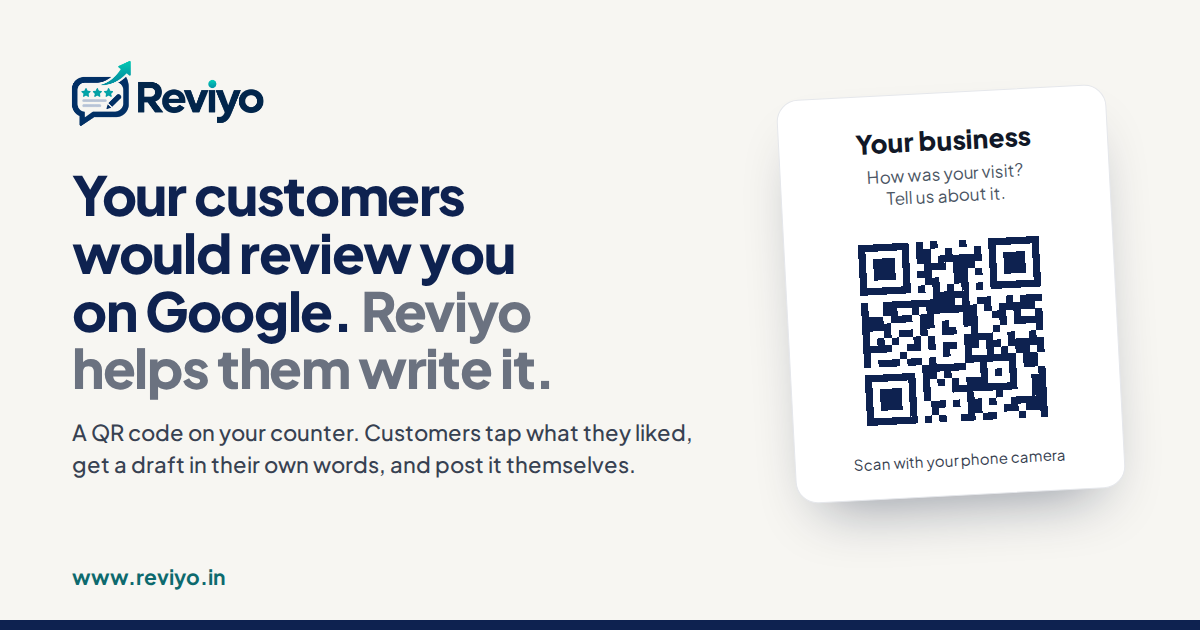
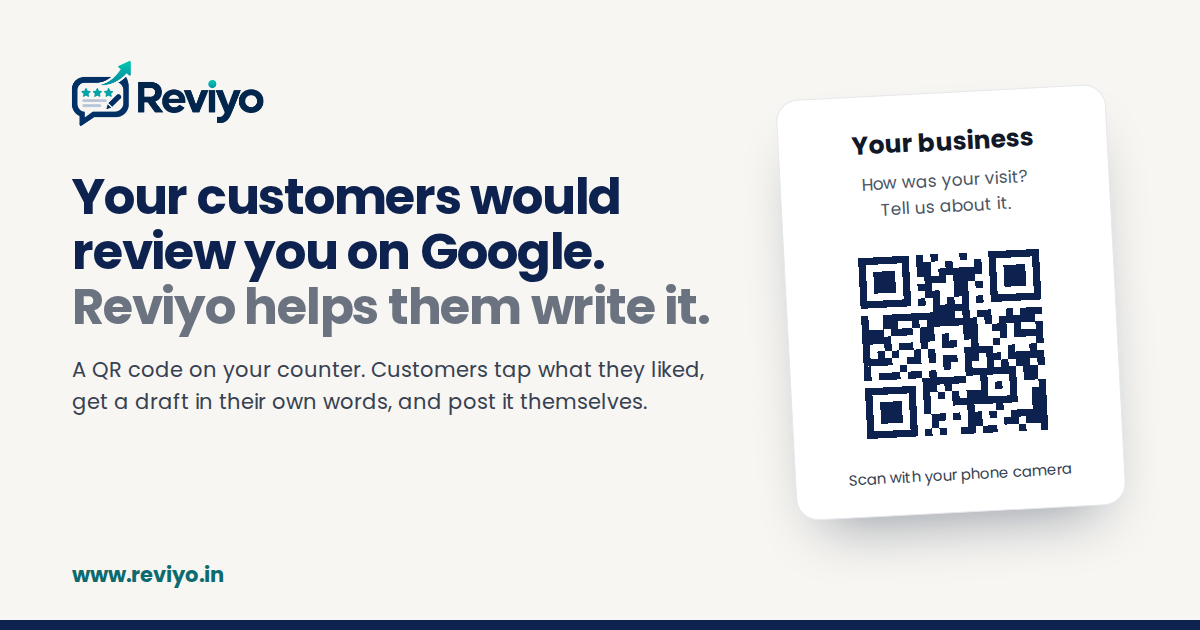
Use Poppins for the whole site
Chosen from a side-by-side of eight fonts on the pricing section. Poppins
(Indian Type Foundry) is clear and friendly, has a well-drawn ₹ sign, and
is self-hosted like before. Only the four weights the site uses are loaded
(regular, medium, semibold, bold); page titles use bold, and headings get
slightly looser spacing and line height to suit the wider letters. The
social share image is redrawn in the same font.

Claude-Session: https://claude.ai/code/session_01G6gXpwaLUAb6Rb51EmzMmu

Changed region(s): [[0.0617, 0.2714, 0.5858, 0.754], [0.6475, 0.2111, 0.9558, 0.8444], [0.0617, 0.9048, 0.185, 0.9349]]

diff --git a/src/index.css b/src/index.css
@@ -1,5 +1,9 @@
-/* Self-hosted site font (see fontFamily.sans in tailwind.config.js). */
-@import '@fontsource-variable/plus-jakarta-sans/wght.css';
+/* Self-hosted site font (see fontFamily.sans in tailwind.config.js): only the
+   four weights the site uses — font-normal, -medium, -semibold, and -bold. */
+@import '@fontsource/poppins/400.css';
+@import '@fontsource/poppins/500.css';
+@import '@fontsource/poppins/600.css';
+@import '@fontsource/poppins/700.css';
 
 @tailwind base;
 @tailwind components;
@@ -10,10 +14,11 @@
     @apply text-gray-900 antialiased;
   }
 
-  /* Large headings are set a little tighter, as display type usually is. */
+  /* Large headings are set a touch tighter, as display type usually is.
+     Poppins is wide and round, so only slightly. */
   h1,
   h2 {
-    letter-spacing: -0.02em;
+    letter-spacing: -0.01em;
   }
 
   /*

diff --git a/src/pages/marketing/IndustryPage.tsx b/src/pages/marketing/IndustryPage.tsx
@@ -32,7 +32,7 @@ export function IndustryPage() {
             <Breadcrumbs />
             <div className="mt-10 max-w-3xl">
               <p className="text-sm font-semibold text-accent-700">Google reviews for {industry.plural}</p>
-              <h1 className="mt-3 text-[2rem] font-extrabold leading-[1.1] text-balance text-gray-900 sm:text-5xl">{industry.headline}</h1>
+              <h1 className="mt-3 text-[2rem] font-bold leading-[1.15] text-balance text-gray-900 sm:text-5xl">{industry.headline}</h1>
               <p className="mt-6 text-lg leading-relaxed text-gray-700">{industry.intro}</p>
               <div className="mt-8 flex flex-col gap-4 sm:flex-row sm:items-center sm:gap-6">
                 <Link to="/signup" className={`${buttonClasses({ size: 'lg' })} w-full sm:w-auto`}>

diff --git a/src/pages/LandingPage.tsx b/src/pages/LandingPage.tsx
@@ -93,7 +93,7 @@ export function LandingPage() {
           <div className="mx-auto grid max-w-6xl items-center gap-12 lg:grid-cols-[1.2fr_1fr] lg:gap-12">
             <div>
               <p className="text-sm font-semibold text-accent-700">Google reviews for local businesses in India</p>
-              <h1 className="mt-4 text-[2.1rem] font-extrabold leading-[1.08] text-balance text-gray-900 sm:text-5xl lg:text-[3.25rem]">
+              <h1 className="mt-4 text-[2.1rem] font-bold leading-[1.12] text-balance text-gray-900 sm:text-5xl lg:text-[3.25rem]">
                 Your customers would review you on Google.{' '}
                 <span className="text-gray-500">They just don’t know what to write.</span>
               </h1>

diff --git a/tailwind.config.js b/tailwind.config.js
@@ -37,11 +37,11 @@ export default {
         paper: '#f7f6f2',
       },
       fontFamily: {
-        // One family for the whole site, chosen to match the geometric logo
-        // wordmark. Self-hosted (no request to Google Fonts); it has the ₹ sign.
-        // The fallbacks show until it loads.
+        // Poppins for the whole site: a clear geometric face from the Indian
+        // Type Foundry, with a well-drawn ₹ sign. Self-hosted (no request to
+        // Google Fonts); the fallbacks show until it loads.
         sans: [
-          '"Plus Jakarta Sans Variable"',
+          'Poppins',
           'system-ui',
           '-apple-system',
           '"Segoe UI"',

diff --git a/src/pages/marketing/ReviewLinkGeneratorPage.tsx b/src/pages/marketing/ReviewLinkGeneratorPage.tsx
@@ -80,7 +80,7 @@ export function ReviewLinkGeneratorPage() {
             <div>
               <Breadcrumbs />
               <p className="mt-8 text-sm font-semibold text-accent-700">Free tool · No sign-up</p>
-              <h1 className="mt-3 text-[2rem] font-extrabold leading-[1.1] text-balance text-gray-900 sm:text-5xl">
+              <h1 className="mt-3 text-[2rem] font-bold leading-[1.15] text-balance text-gray-900 sm:text-5xl">
                 Free Google review link &amp; QR code generator
               </h1>
               <p className="mt-6 text-lg leading-relaxed text-gray-700">

diff --git a/src/pages/PricingPage.tsx b/src/pages/PricingPage.tsx
@@ -17,7 +17,7 @@ export function PricingPage() {
       <section className="bg-paper px-5 pb-16 pt-8 sm:px-6 lg:pb-24 lg:pt-12">
         <div className="max-w-4xl mx-auto">
           <Breadcrumbs />
-          <h1 className="mt-8 text-[2rem] font-extrabold leading-[1.1] text-balance text-gray-900 sm:text-5xl">
+          <h1 className="mt-8 text-[2rem] font-bold leading-[1.15] text-balance text-gray-900 sm:text-5xl">
             Every feature on both plans. Just pick a term.
           </h1>
           <p className="mt-6 max-w-2xl text-lg leading-relaxed text-gray-700">

diff --git a/src/pages/NotFoundPage.tsx b/src/pages/NotFoundPage.tsx
@@ -29,7 +29,7 @@ export function NotFoundPage() {
         <div className="mx-auto max-w-6xl">
           <div className="max-w-2xl">
             <p className="text-sm font-semibold text-accent-700">Error 404</p>
-            <h1 className="mt-3 text-[2rem] font-extrabold leading-[1.1] text-balance text-gray-900 sm:text-5xl">
+            <h1 className="mt-3 text-[2rem] font-bold leading-[1.15] text-balance text-gray-900 sm:text-5xl">
               We couldn&rsquo;t find that page
             </h1>
             <p className="mt-6 text-lg leading-relaxed text-gray-700">

diff --git a/src/pages/marketing/IndustriesPage.tsx b/src/pages/marketing/IndustriesPage.tsx
@@ -17,7 +17,7 @@ export function IndustriesPage() {
         <div className="mx-auto max-w-6xl">
           <Breadcrumbs />
           <div className="mt-8 max-w-3xl">
-            <h1 className="text-[2rem] font-extrabold leading-[1.1] text-balance text-gray-900 sm:text-5xl">
+            <h1 className="text-[2rem] font-bold leading-[1.15] text-balance text-gray-900 sm:text-5xl">
               Get more Google reviews, whatever your business
             </h1>
             <p className="mt-6 text-lg leading-relaxed text-gray-700">

diff --git a/README.md b/README.md
@@ -496,7 +496,7 @@ them verbatim, so a wrong value there is a false disclosure.
 |-------|--------|---------|
 | `public/brand/reviyo-logo.png`, `reviyo-icon.png` | Project-supplied | **You must confirm you own or are licensed to use these.** They are the only raster images in the repo. |
 | Icons | `lucide-react` | ISC |
-| Site font (Plus Jakarta Sans) | `@fontsource-variable/plus-jakarta-sans`, bundled and served from the site itself | SIL Open Font License 1.1 |
+| Site font (Poppins, Indian Type Foundry) | `@fontsource/poppins`, bundled and served from the site itself | SIL Open Font License 1.1 |
 | QR codes | Generated at runtime by `qrcode` (MIT); the landing-page illustration's code is precomputed with it | No third-party rights |
 
 There are no stock photographs, no illustrations, and no web fonts fetched from
